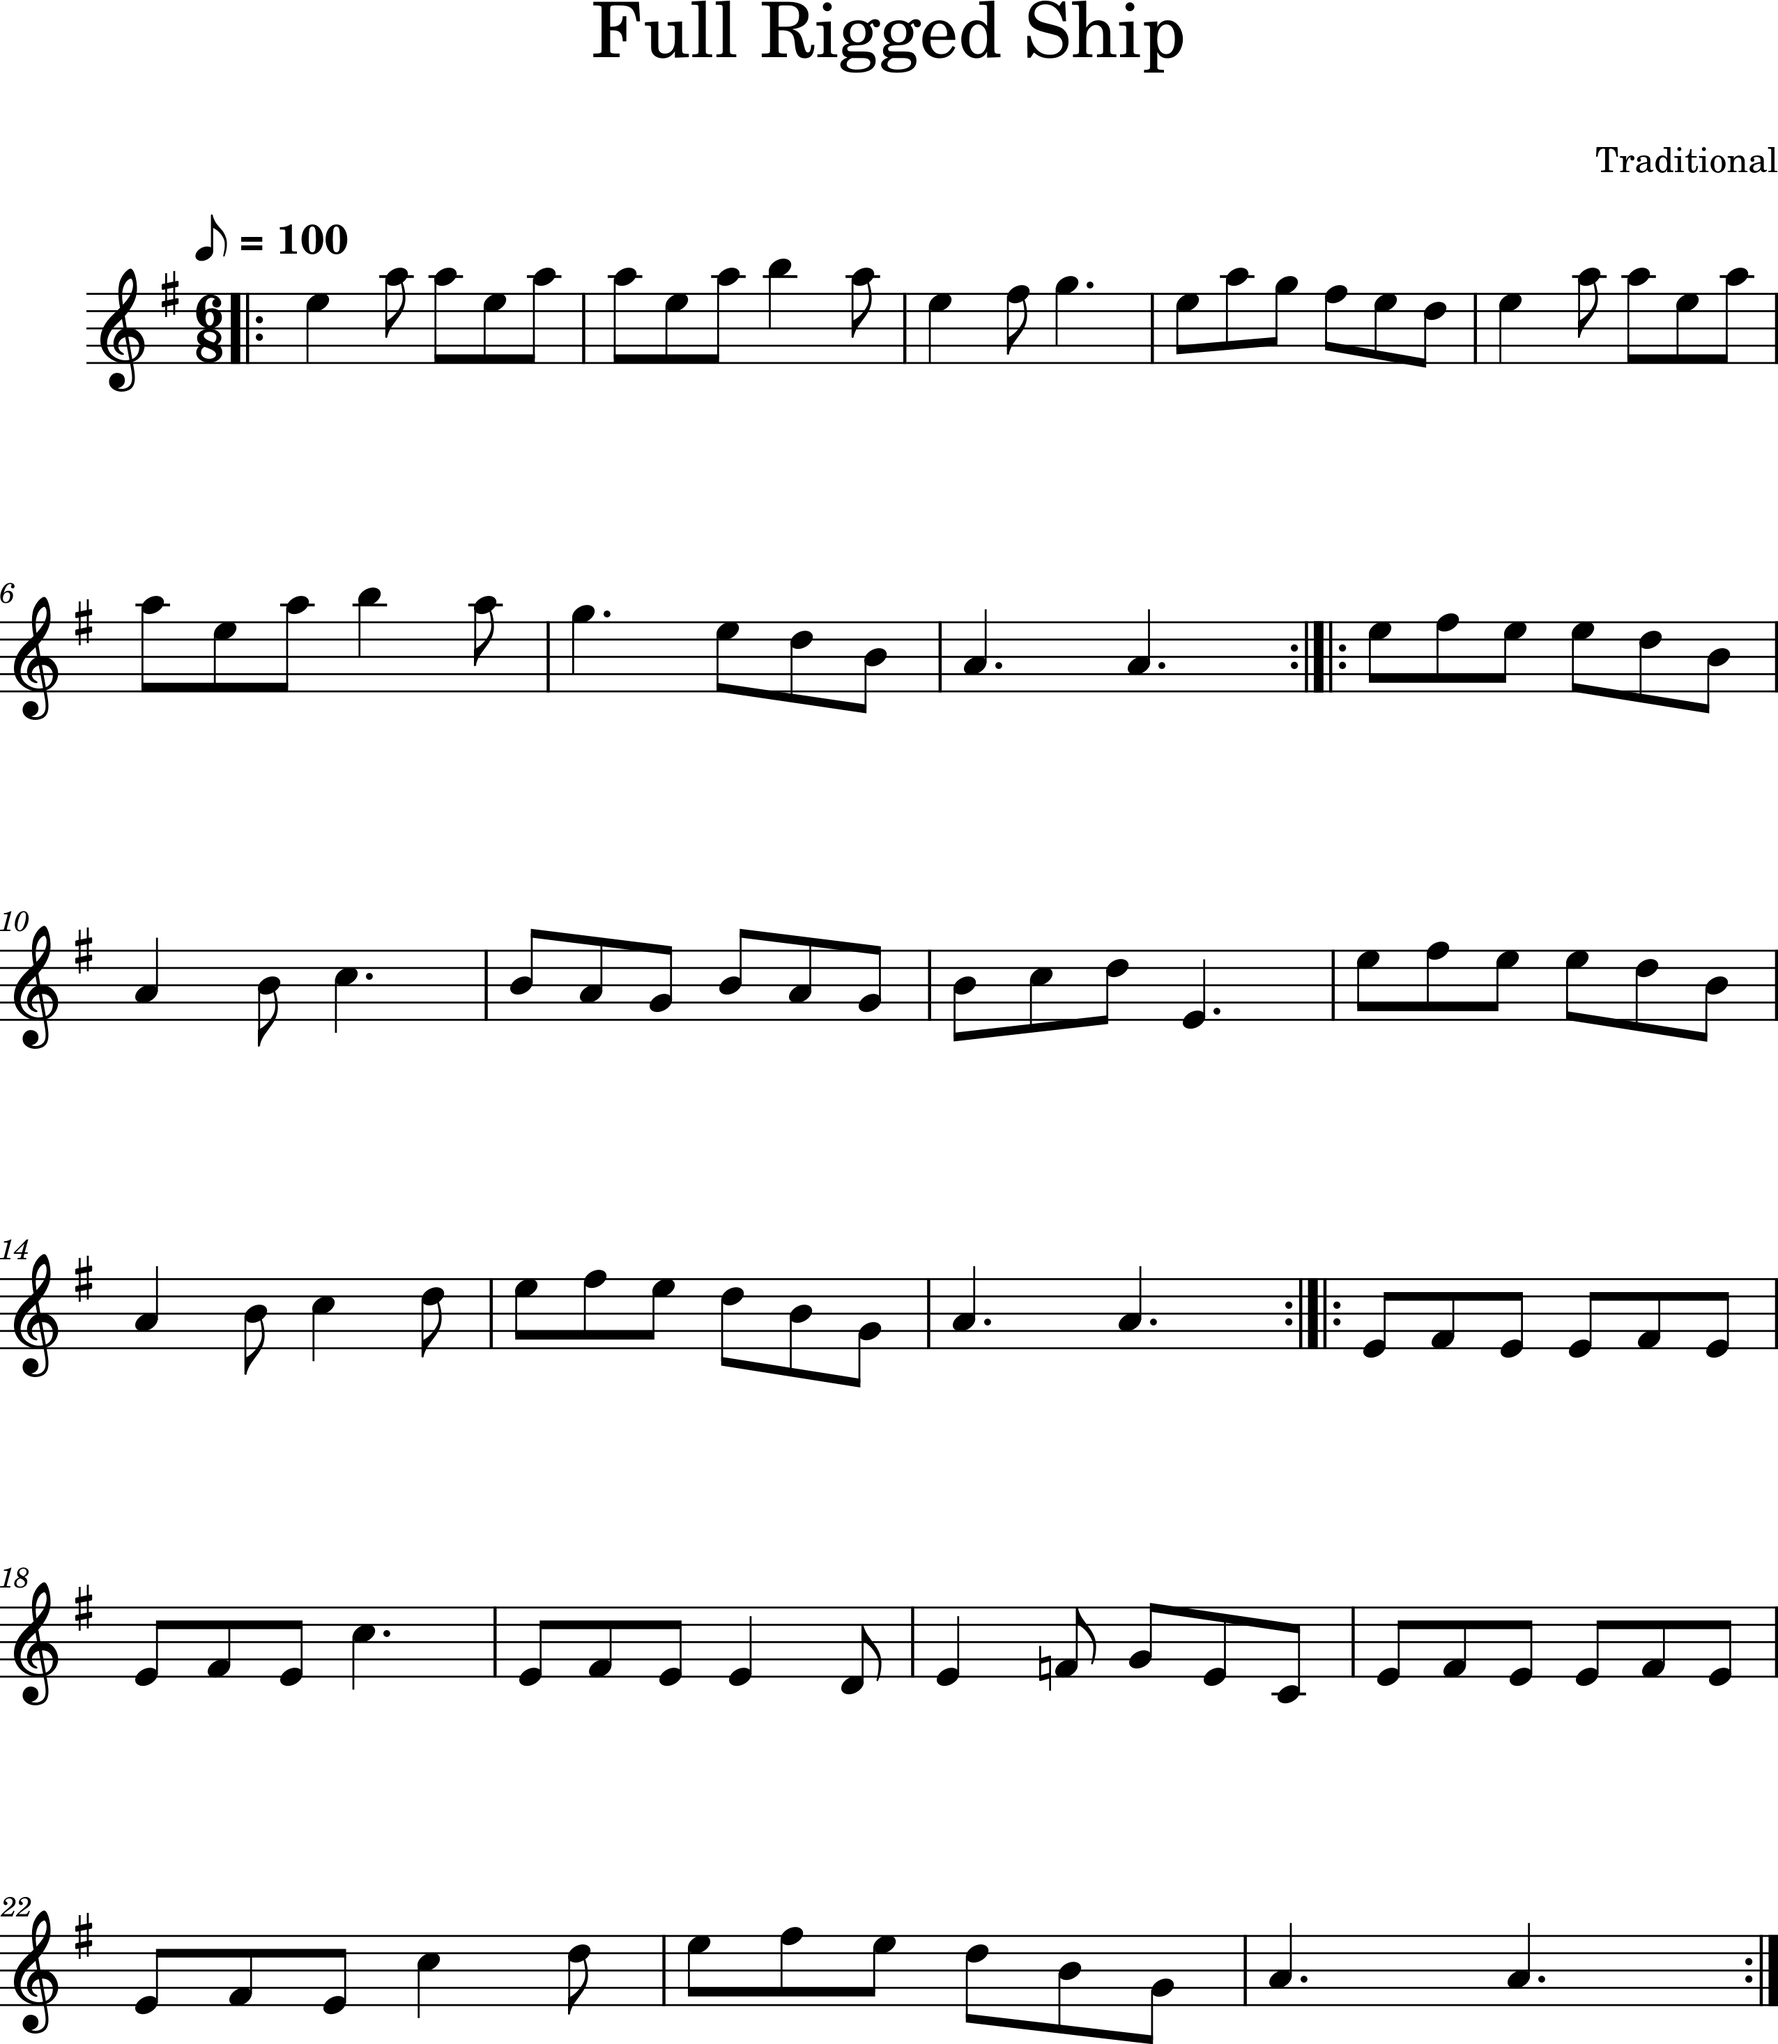
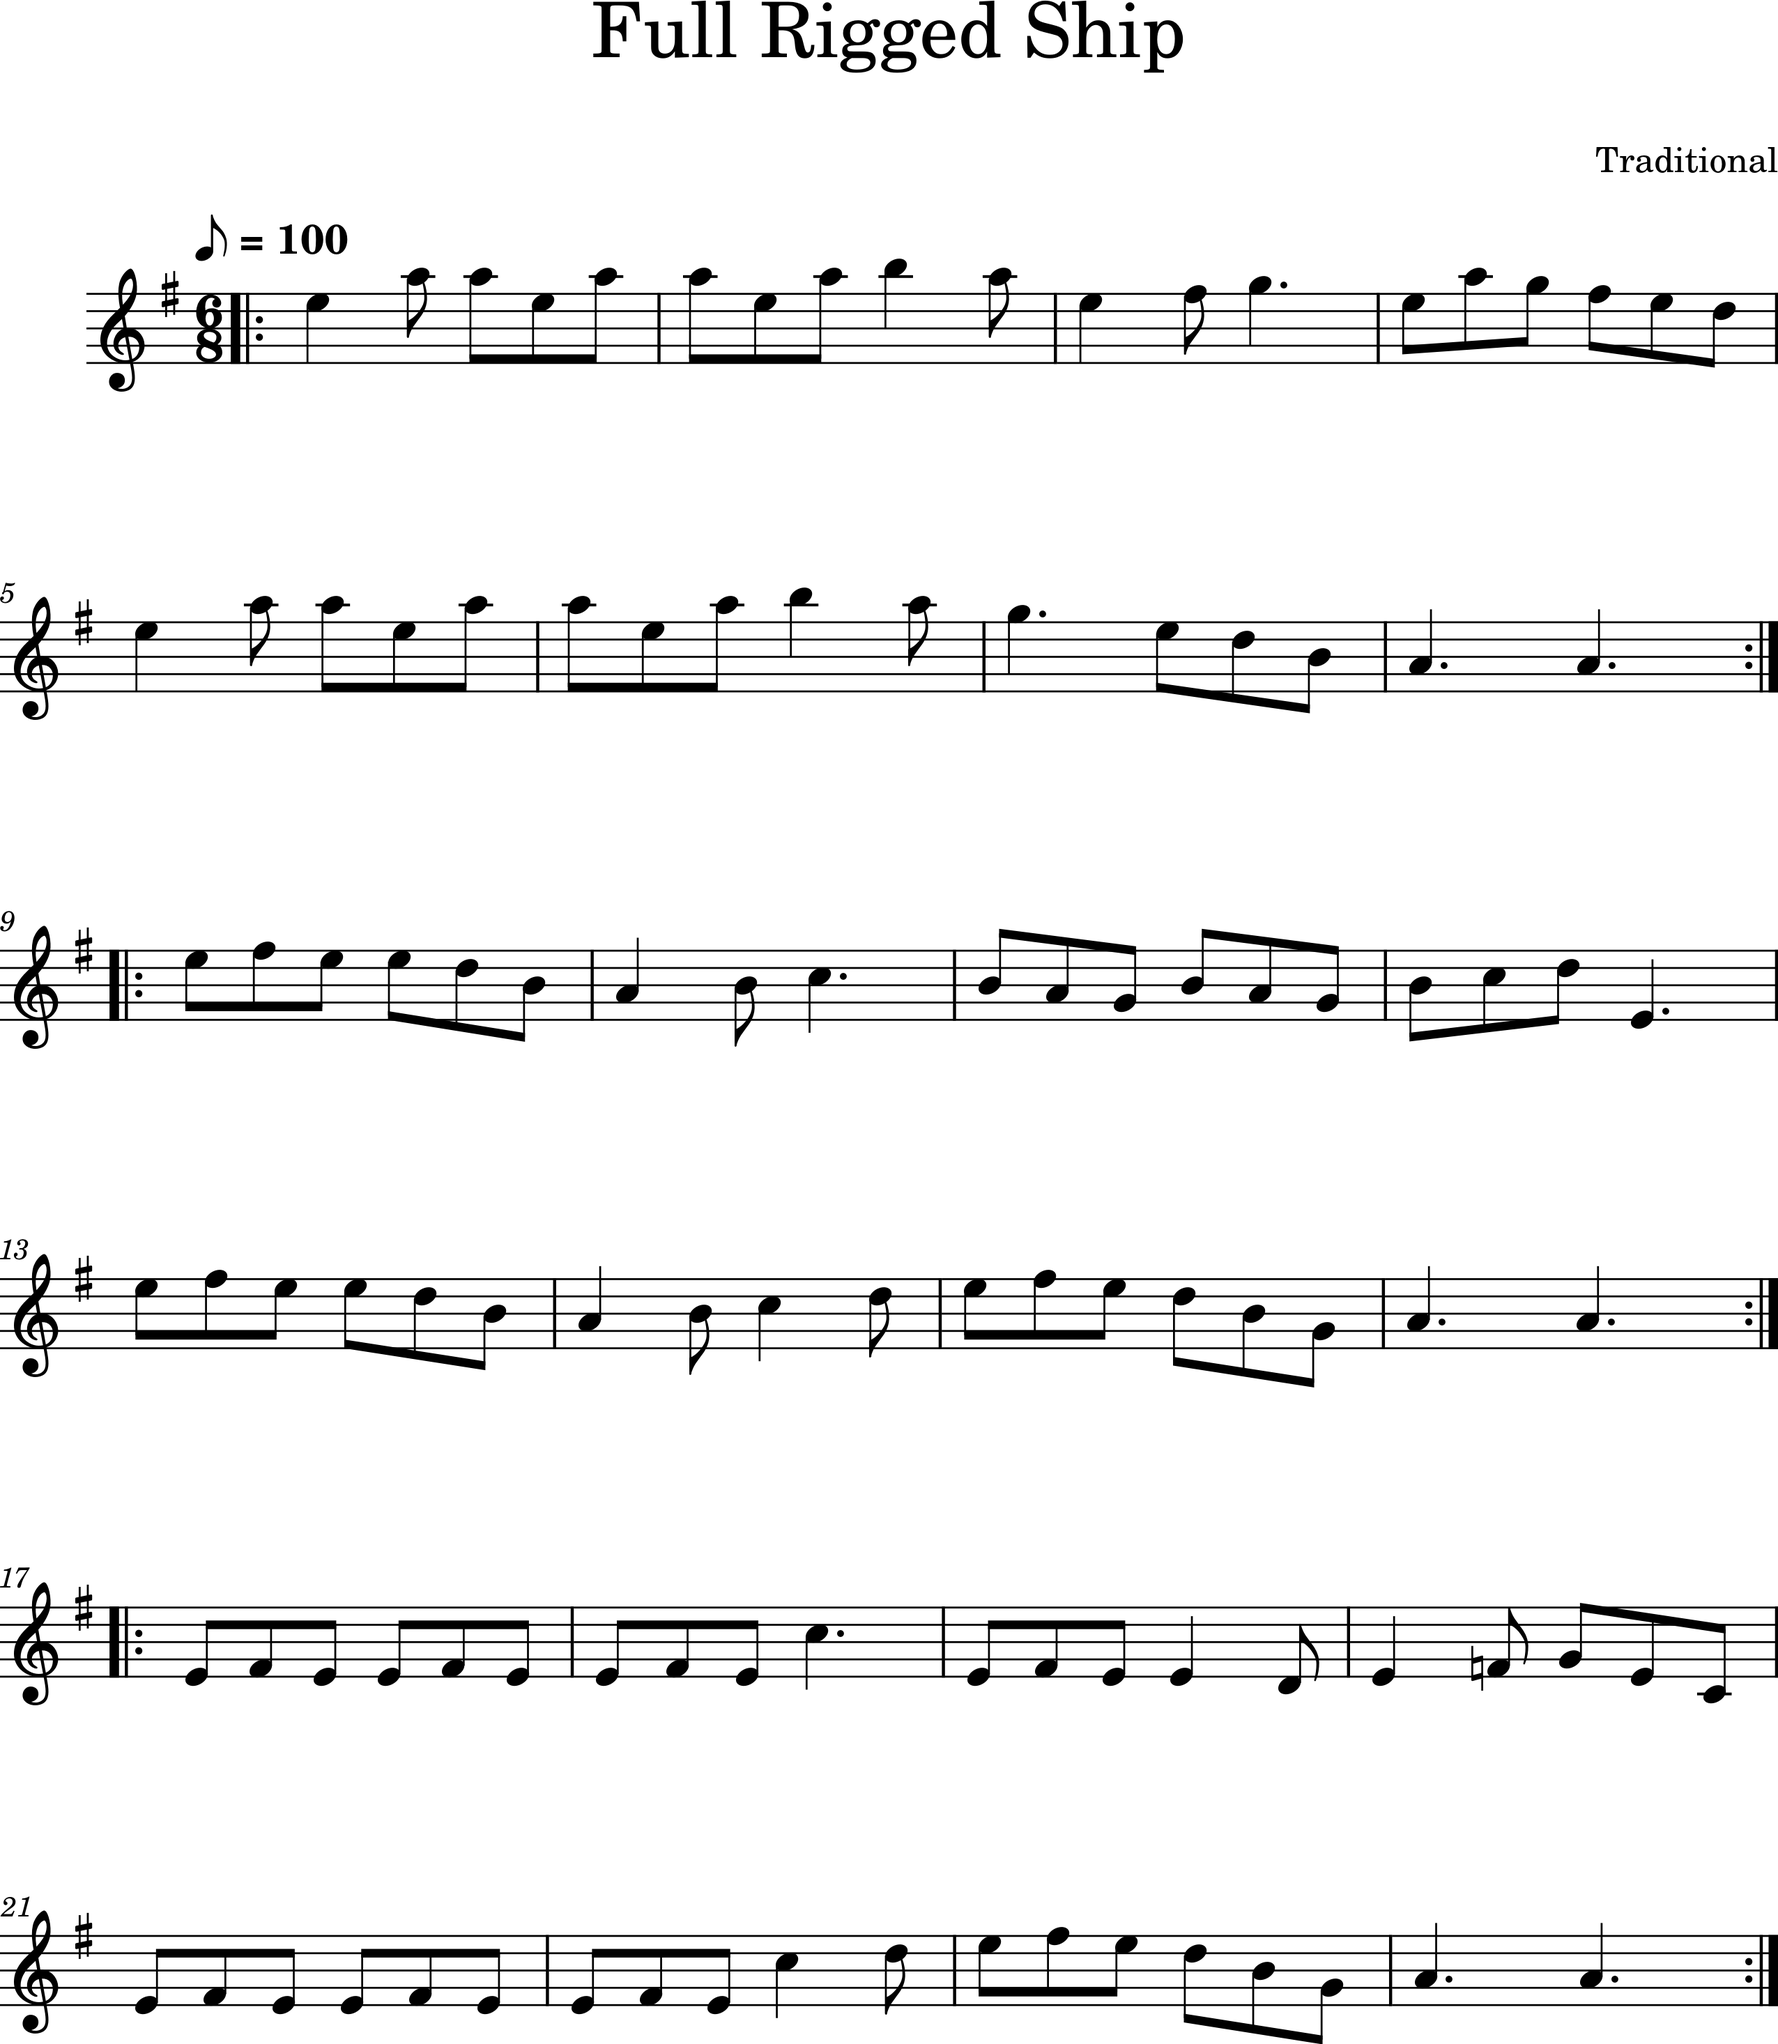
fix scorebreak & extend docu

diff --git a/ABC2M21/ABCParser.py b/ABC2M21/ABCParser.py
@@ -483,7 +483,24 @@ class FileHeader(ABCParser):
 
         Examples:
 
-        >>> from ABC2M21 import Field
+        >>> abc_fragment = '''
+        ... T:Ave Maria
+        ... C:Johann Sebastian Bach
+        ... C:Charles Gounod
+        ... O:Germany
+        ... A:France
+        ... Z:John Smith, <j.s@mail.com>
+        ... Z:abc-transcription John Smith, <j.s@mail.com>, 1st Jan 2010
+        ... Z:abc-edited-by Fred Bloggs, <f.b@mail.com>, 31st Dec 2010
+        ... Z:abc-copyright &copy; John Smith
+        ... '''
+        >>> score = ABCTranslator(abc_fragment)
+        >>> score.metadata.composer
+        'Johann Sebastian Bach and Charles Gounod'
+        >>> score.metadata.localeOfComposition
+        'Germany, France'
+        >>> score.metadata.contributors
+
         >>> fh = FileHeader()
         >>> fh.abc_meta_data(Field('MetaData', 'B:WTC I'))
         >>> fh.abc_meta_data(Field('MetaData', 'C:J.S. Bach'))
@@ -2323,12 +2340,15 @@ def post_linebreaks(part: stream.Part):
     # Search linebreaks in the part and move the line break into the next measure
     for line_break in part.getElementsByClass(layout.SystemLayout):
         # Get measure on the offset of the linebreak
-        offset_measure: stream.Measure = part.getElementsByOffset(
-            line_break.offset).getElementsByClass(stream.Measure).first()
+        offset_measure = part.getElementsByOffset(line_break.offset)
+        offset_measure = offset_measure.getElementsByClass(stream.Measure).first()
 
-        part.remove(line_break)
+        #part.remove(line_break)
         if offset_measure:
-            offset_measure.append(line_break)
+            offset_measure.append(layout.SystemLayout(isNew=True))
+            #offset_measure.coreElementsChanged()
+
+        #part.coreElementsChanged()
 
 class TuneBody(TuneHeader, NoteMixin):
     def __init__(self, tune_header: TuneHeader):
@@ -2473,9 +2493,8 @@ class TuneBody(TuneHeader, NoteMixin):
 
                     # Kopieren Sie die Elemente aus part2 in part1
                     for element in m21_part.elements:
-                        combined_part.append(element)
-
-
+                        combined_part.coreInsert(element.offset, element)
+                    combined_part.coreElementsChanged()
 
             if combined_part.quarterLength > 0:
                 try:
@@ -2691,7 +2710,7 @@ class TuneBody(TuneHeader, NoteMixin):
         else:
             # There is no open measure in the context that can be closed
             # with this token
-            print(f"Ignore end repeat bar line there is no open measure in this part.")
+            self.abc_debug(f"Ignore end repeat bar line there is no open measure in this part.")
 
     def abc_barline(self, token: Token):
         """
@@ -3185,6 +3204,7 @@ class TuneBody(TuneHeader, NoteMixin):
                 self.voice.part.append(linebreak)
         else:
             self.abc_debug(f"Symbol '{token.src}' is not a supported score linebreak")
+
 
     def fix_part_lengths(self):
         """

diff --git a/ABC2M21/ABCToken.py b/ABC2M21/ABCToken.py
@@ -282,7 +282,8 @@ ACCENT_AND_LIGATURES = {'&Aacute;': 'Á', '&Abreve;': 'Ă', '&Acirc;': 'Â', '&A
                         '&icirc;': 'î', '&igrave;': 'ì', '&iuml;': 'ï', '&ntilde;': 'ñ', '&oacute;': 'ó',
                         '&ocirc;': 'ô', '&ograve;': 'ò', '&oslash;': 'ø', '&otilde;': 'õ', '&ouml;': 'ö',
                         '&scaron;': 'š', '&uacute;': 'ú', '&ucirc;': 'û', '&ugrave;': 'ù', '&uuml;': 'ü',
-                        '&yacute;': 'ý', '&ycirc;': 'ŷ', '&yuml;': 'ÿ', '&zcaron;': 'ž', '\\"A': 'Ä', '\\"E': 'Ë',
+                        '&yacute;': 'ý', '&ycirc;': 'ŷ', '&yuml;': 'ÿ', '&zcaron;': 'ž', '&copy;': '©',
+                        '\\"A': 'Ä', '\\"E': 'Ë',
                         '\\"I': 'Ï', '\\"O': 'Ö', '\\"U': 'Ü', '\\"Y': 'Ÿ', '\\"a': 'ä', '\\"e': 'ë', '\\"i': 'ï',
                         '\\"o': 'ö', '\\"u': 'ü', '\\"y': 'ÿ', "\\'A": 'Á', "\\'E": 'É', "\\'I": 'Í', "\\'O": 'Ó',
                         "\\'U": 'Ú', "\\'Y": 'Ý', "\\'a": 'á', "\\'e": 'é', "\\'i": 'í', "\\'o": 'ó', "\\'u": 'ú',

diff --git a/ABC2M21/testtunes.py b/ABC2M21/testtunes.py
@@ -221,6 +221,16 @@ abc_fingerings = """
 !1!E !2!G !3!E !4!F !5!G 
 """
 
+abc_tcoz_metadata = """
+T:Ave Maria
+C:Johann Sebastian Bach
+C:Charles Gounod
+O:Germany
+O:France
+Z:abc-transcription Marian Schulz
+Z:abc-edited-by Marian Schulz
+Z:abc-copyright C. Opyright
+"""
 abc_clef_octave = """
 X:1
 L:1
@@ -266,8 +276,14 @@ w:!invertedfermata!  !trill!  !mordent!  !fermata!  !turn!  !invertedturn!  !arp
 abc_articulations = """
 L:1/4
 K:C
-!staccato!C  !>!C !downbow!C !^!C !breath!C !tenuto!C !upbow!C !open!C !+!C !snap!C !nail!C !doit! C !thumb!C| !cesura!C| 
-w:!staccato! !>!  !downbow!  !^!  !breath!  !tenuto!  !upbow!  !open!  !+!  !snap!  !nail!  !doit!   !thumb!   !cesura!
+!staccato!C  !>!C     !downbow!C !^!C    |$
+!tenuto!C    !upbow!C !open!C    !+!C    |
+!breath!C    !snap!C  !nail!C    !doit!C |
+!thumb!C     !cesura!C |
+w:!staccato! !>!      !downbow!  !^!     |
++:!tenuto!   !upbow!  !open!     !+!     |
++:!breath!   !snap!   !nail!     !doit!  |  
++:!thumb!    !cesura! |
 """
 
 abc_repeat_marker = """

diff --git a/images/create_png.py b/images/create_png.py
@@ -21,7 +21,7 @@ abc_tunes = ['abc_propagate_accidentals', 'abc_twinkle', 'abc_pitch_octaves',
              'abc_score_line_break_symbols', 'abc_line_continue_over_comments', 'abc_part',
              'abc_full_rigged_ship', 'abc_hector_the_hero', 'abc_mystery_reel',
              'abc_william_and_nancy', 'abc_kitchen_girl', 'abc_fyrareprisarn', 'abc_ale_is_dear',
-             'abc_the_begger_boy', 'abc_the_ale_wifes_daughter' ]
+             'abc_the_begger_boy', 'abc_the_ale_wifes_daughter']
 
 
 
@@ -39,7 +39,7 @@ for musecore in musecores:
 # Getting the current working directory
 cwd = os.getcwd()
 
-#s = ABCTranslator(testtunes.abc_clef_octave)
+#s = ABCTranslator(testtunes.abc_score_line_break_symbols)
 #s.show()
 #exit()
 

diff --git a/documentation.md b/documentation.md
@@ -240,6 +240,39 @@ K:C
 ```
 ![part](images/part.png)
 
+### Titel, Composer, Area, Origin, Transcription
+
+Historically, the A: field has been used to contain area information. However this field 
+is now deprecated and it is recommended that such information be included in the O: field. 
+
+Note:
+* The "Area" (A:) field is treated like the "Origin" (O:) field.
+```
+>>> abc_fragment = '''
+... T:Ave Maria
+... C:Johann Sebastian Bach
+... C:Charles Gounod
+... O:Germany
+... A:France
+... Z:John Smith, <j.s@mail.com>
+... Z:abc-transcription John Smith, <j.s@mail.com>, 1st Jan 2010
+... Z:abc-edited-by Fred Bloggs, <f.b@mail.com>, 31st Dec 2010
+... Z:abc-copyright &copy; John Smith
+... '''
+>>> score = ABCTranslator(abc_fragment)
+>>> score.metadata.composer
+'Johann Sebastian Bach and Charles Gounod'
+>>> score.metadata.localeOfComposition
+'Germany, France'
+>>> score.metadata.contributors
+(<music21.metadata.primitives.Contributor composer:Johann Sebastian Bach>,
+ <music21.metadata.primitives.Contributor composer:Charles Gounod>,
+ <music21.metadata.primitives.Contributor abc-transcription:John Smith, <j.s@mail.com>>,
+ <music21.metadata.primitives.Contributor abc-transcription : John Smith, <j.s@mail.com>, 1st Jan 2010>,
+ <music21.metadata.primitives.Contributor abc-edited-by : Fred Bloggs, <f.b@mail.com>, 31st Dec 2010>,
+ <music21.metadata.primitives.Contributor abc-copyright : © John Smith)
+```
+
 ## ABC music code
 
 ### Pitches Across Various Octaves
@@ -565,8 +598,10 @@ Note:
 ```
 L:1/4
 K:C
-  !staccato!C  | !>!C     | !downbow!C | !^!C | !breath!C |
-  !tenuto!C    | !upbow!C | !open!C    | !+!C | !snap!C   | !nail!C
+!staccato!C  !>!C     !downbow!C !^!C |
+!tenuto!C    !upbow!C !open!C    !+!C |
+!breath!C    !snap!C  !nail!C    !doit!C |
+!thumb!C|    !cesura!C
 ```
 ![Articulations](images/articulations.png)
 
